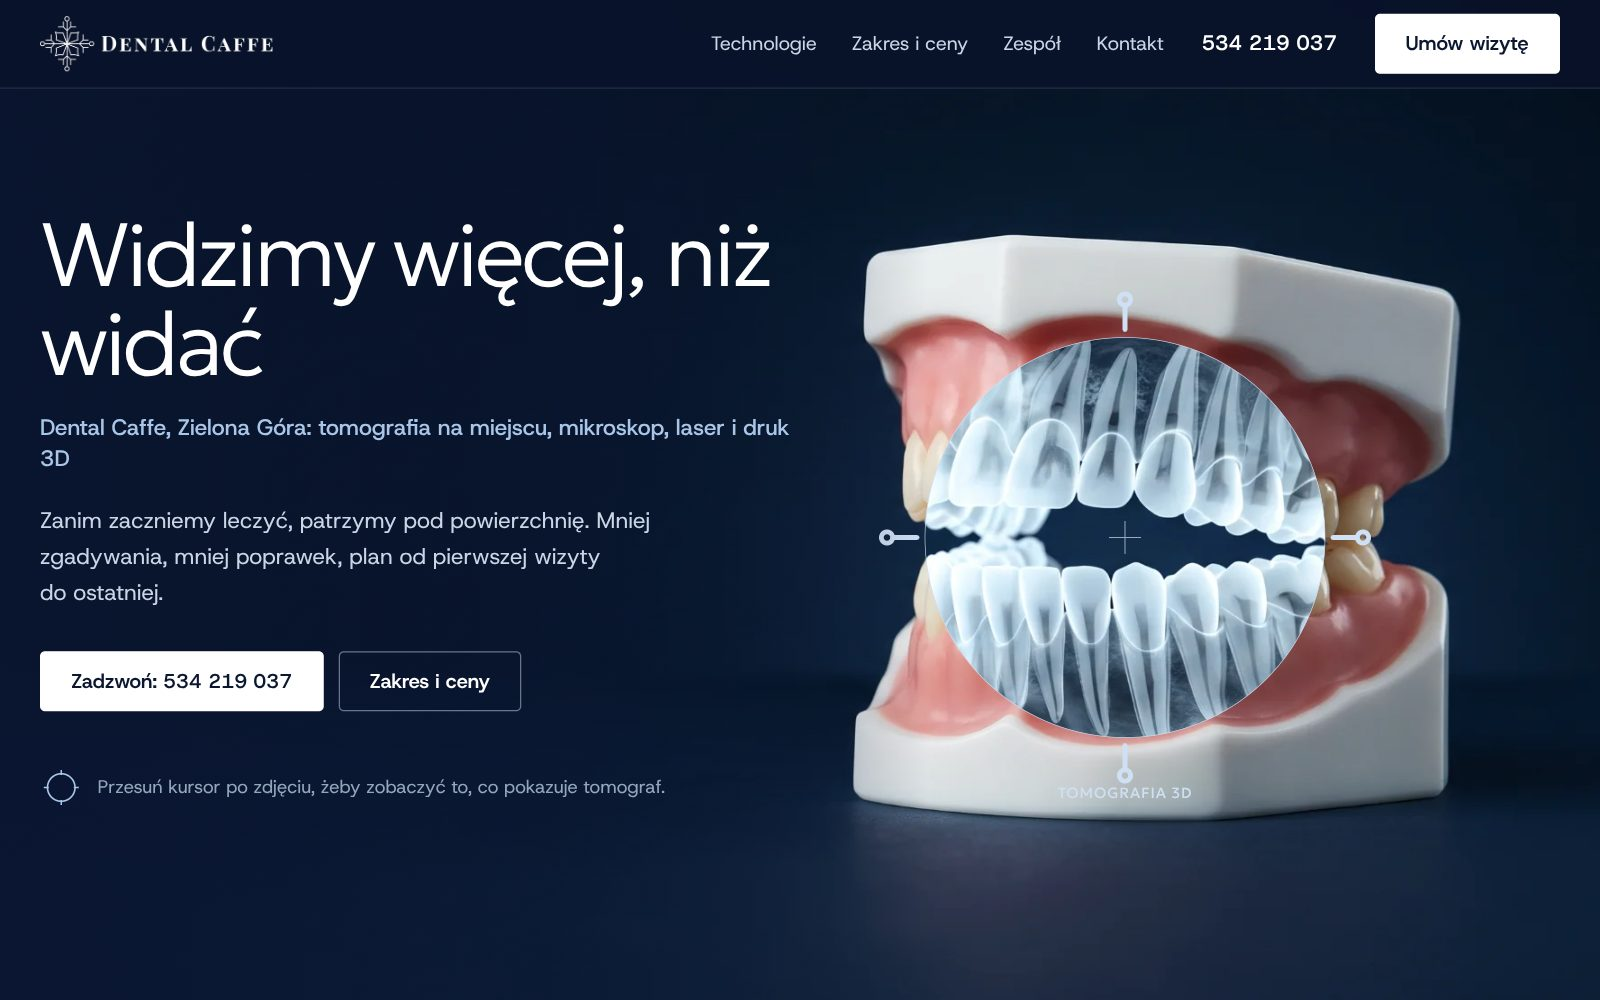
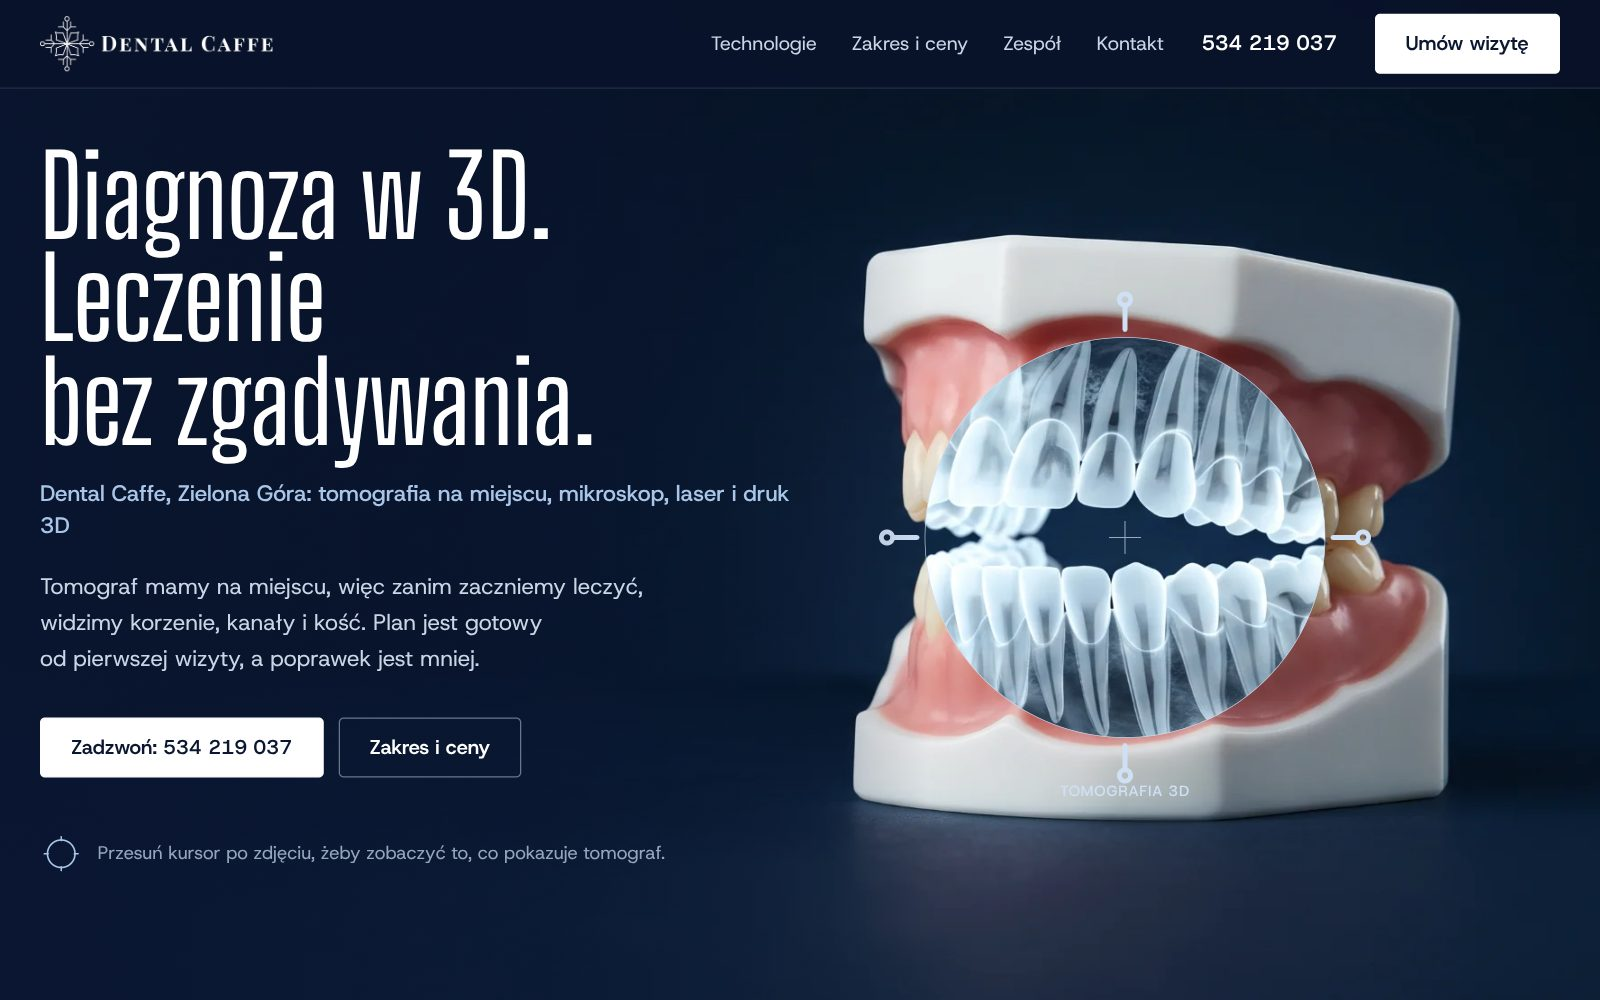
Dental Caffe W2: krój Big Shoulders Display, hasło „Diagnoza w 3D. Leczenie bez zgadywania.”
Claude-Session: https://claude.ai/code/session_01CYHamdcN9P8E1oWXvo89Bo

Changed region(s): [[0.0, 0.124, 0.5, 0.806], [0.0312, 0.837, 0.4062, 0.868], [0.6875, 0.775, 0.75, 0.806]]

diff --git a/p/dentalcaffe-w2/index.html b/p/dentalcaffe-w2/index.html
@@ -16,11 +16,11 @@
 <meta name="robots" content="noindex,nofollow">
 <meta name="theme-color" content="#0B1730">
 <link rel="preconnect" href="https://fonts.googleapis.com"><link rel="preconnect" href="https://fonts.gstatic.com" crossorigin>
-<link href="https://fonts.googleapis.com/css2?family=Geologica:wght@200;300;400&family=Host+Grotesk:wght@400;500;600;700&display=swap" rel="stylesheet">
+<link href="https://fonts.googleapis.com/css2?family=Big+Shoulders+Display:wght@500;600;700&family=Host+Grotesk:wght@400;500;600;700&display=swap" rel="stylesheet">
 <script>document.documentElement.classList.add('js')</script>
 <style>
 :root{--ink:#0B1730;--deep:#08122A;--navy:#1A3260;--ice:#7F94A3;--frost:#C9D6E6;--light:#EEF2F7;--paper:#F8FAFC;--glow:#A9C6E8;--text:#18233B;--muted:#4A5874;--hdr-h:112px;
---disp:'Geologica',system-ui,sans-serif;--sans:'Host Grotesk',system-ui,sans-serif}
+--disp:'Big Shoulders Display','Arial Narrow',sans-serif;--sans:'Host Grotesk',system-ui,sans-serif}
 *{box-sizing:border-box}html{scroll-behavior:smooth;-webkit-text-size-adjust:100%}
 body{margin:0;background:var(--ink);color:#fff;font:400 1.05rem/1.62 var(--sans)}
 img{max-width:100%;height:auto;display:block}a{color:inherit}
@@ -29,9 +29,9 @@ img{max-width:100%;height:auto;display:block}a{color:inherit}
 input,select,textarea{caret-color:var(--navy);accent-color:var(--navy)}
 .wrap{width:100%;max-width:1280px;margin:0 auto;padding:0 32px}
 section[id]{scroll-margin-top:calc(var(--hdr-h) + 8px)}
-h1,h2{font-family:var(--disp);font-weight:300;letter-spacing:-.03em;line-height:1.02;margin:0}
+h1,h2{font-family:var(--disp);font-weight:500;letter-spacing:-.005em;line-height:.96;margin:0}
 h3{font-family:var(--sans);font-weight:600;letter-spacing:-.015em;line-height:1.1;margin:0}
-h2{font-size:clamp(2.2rem,4vw,3.6rem)}
+h2{font-size:clamp(2.8rem,5.2vw,4.7rem)}
 p{margin:0 0 1em}
 .top{position:fixed;inset:0 0 auto 0;z-index:50}
 .mk{background:#122450;color:#C9D6E6;font-size:.8rem;text-align:center;padding:6px 12px;line-height:1.35}.mk b{color:#fff;font-weight:600}
@@ -39,7 +39,7 @@ p{margin:0 0 1em}
 .hdr .wrap{display:flex;align-items:center;gap:30px;height:70px}
 .brand{display:flex;align-items:center;gap:12px;text-decoration:none;flex:none}
 .brand svg{width:34px;height:34px;color:#fff}
-.brand span{font-family:var(--disp);font-weight:600;font-size:1.12rem;letter-spacing:.14em;text-transform:uppercase}
+.brand span{font-family:var(--sans);font-weight:600;font-size:1.12rem;letter-spacing:.14em;text-transform:uppercase}
 .nav{display:flex;gap:28px;margin-left:auto;font-size:.97rem;color:var(--frost)}
 .nav a{text-decoration:none;padding:6px 0}.nav a:hover{color:#fff}
 .tel{font-weight:600;text-decoration:none;white-space:nowrap;font-variant-numeric:tabular-nums}
@@ -62,11 +62,11 @@ p{margin:0 0 1em}
 .ret{position:absolute;left:var(--x);top:var(--y);width:calc(var(--r)*2 + 64px);height:calc(var(--r)*2 + 64px);transform:translate(-50%,-50%);pointer-events:none;color:#CFE0F4}
 .no-js .ret{left:74%;top:46%}
 .ret svg{width:100%;height:100%;overflow:visible}
-.ret .lab{position:absolute;left:50%;top:100%;transform:translate(-50%,6px);font:400 .74rem/1 var(--disp);letter-spacing:.06em;color:#CFE0F4;white-space:nowrap}
+.ret .lab{position:absolute;left:50%;top:100%;transform:translate(-50%,6px);font:500 .74rem/1 var(--sans);letter-spacing:.06em;color:#CFE0F4;white-space:nowrap}
 .xr::after{content:"";position:absolute;inset:0;background:linear-gradient(90deg,rgba(10,21,48,.92) 0%,rgba(10,21,48,.7) 34%,rgba(10,21,48,0) 58%);pointer-events:none}
 .xr .wrap{position:relative;z-index:2;padding-top:calc(var(--hdr-h) + 30px);padding-bottom:70px;pointer-events:none}
 .xtxt{max-width:600px;pointer-events:auto}
-.xr h1{font-size:clamp(2.8rem,5.6vw,5.6rem);font-weight:200;line-height:.98;letter-spacing:-.04em}
+.xr h1{font-size:clamp(3.4rem,7vw,7.2rem);font-weight:500;line-height:.92;letter-spacing:-.005em}
 .xr h1 span{display:block;font-family:var(--sans);font-weight:500;font-size:clamp(1.05rem,1.4vw,1.25rem);letter-spacing:0;line-height:1.4;color:var(--glow);margin-top:20px}
 .xr .lede{max-width:31rem;font-size:1.12rem;color:var(--frost);margin:22px 0 32px}
 .xr .acts{display:flex;flex-wrap:wrap;gap:12px}
@@ -120,7 +120,7 @@ tbody tr{transition:background .2s}tbody tr:hover{background:rgba(201,214,230,.0
 .kontakt .wrap{display:grid;grid-template-columns:minmax(0,6fr) minmax(0,5fr);gap:72px}
 .kontakt h2{max-width:12ch}
 .kontakt .phones{margin:34px 0}
-.kontakt .phones a{display:block;font-family:var(--disp);font-weight:300;font-size:clamp(2rem,3.8vw,3.2rem);letter-spacing:-.02em;text-decoration:none;line-height:1.2;font-variant-numeric:tabular-nums}
+.kontakt .phones a{display:block;font-family:var(--disp);font-weight:500;font-size:clamp(2.4rem,4.6vw,3.9rem);letter-spacing:0;text-decoration:none;line-height:1.2;font-variant-numeric:tabular-nums}
 .kontakt .phones a:hover{color:var(--glow)}
 .kontakt .info{display:grid;grid-template-columns:repeat(2,minmax(0,1fr));gap:24px;border-top:1px solid rgba(201,214,230,.2);padding-top:26px;color:var(--frost)}
 .kontakt .info b{display:block;color:#fff;font-family:var(--sans);font-weight:600;margin-bottom:4px}
@@ -195,8 +195,8 @@ footer .legal{flex-basis:100%;border-top:1px solid rgba(201,214,230,.1);padding-
    <path d="M-4 0H4M0-4V4" stroke-width=".8" vector-effect="non-scaling-stroke" opacity=".7"/></svg><span class="lab">TOMOGRAFIA 3D</span></div>
  </div>
  <div class="wrap"><div class="xtxt">
-  <h1>Widzimy więcej, niż widać<span>Dental Caffe, Zielona Góra: tomografia na&nbsp;miejscu, mikroskop, laser i&nbsp;druk 3D</span></h1>
-  <p class="lede">Zanim zaczniemy leczyć, patrzymy pod powierzchnię. Mniej zgadywania, mniej poprawek, plan od&nbsp;pierwszej wizyty do&nbsp;ostatniej.</p>
+  <h1>Diagnoza w&nbsp;3D. Leczenie bez&nbsp;zgadywania.<span>Dental Caffe, Zielona Góra: tomografia na&nbsp;miejscu, mikroskop, laser i&nbsp;druk 3D</span></h1>
+  <p class="lede">Tomograf mamy na&nbsp;miejscu, więc zanim zaczniemy leczyć, widzimy korzenie, kanały i&nbsp;kość. Plan jest gotowy od&nbsp;pierwszej wizyty, a&nbsp;poprawek jest mniej.</p>
   <div class="acts"><a class="btn" href="tel:+48534219037">Zadzwoń: 534 219 037</a><a class="btn line" href="#zakres">Zakres i&nbsp;ceny</a></div>
   <p class="hint"><svg viewBox="0 0 34 34" fill="none" stroke="currentColor" stroke-width="1.3"><circle cx="17" cy="17" r="11"/><path d="M17 3v4M17 27v4M3 17h4M27 17h4"/></svg>Przesuń kursor po&nbsp;zdjęciu, żeby zobaczyć to, co pokazuje tomograf.</p>
  </div></div>
